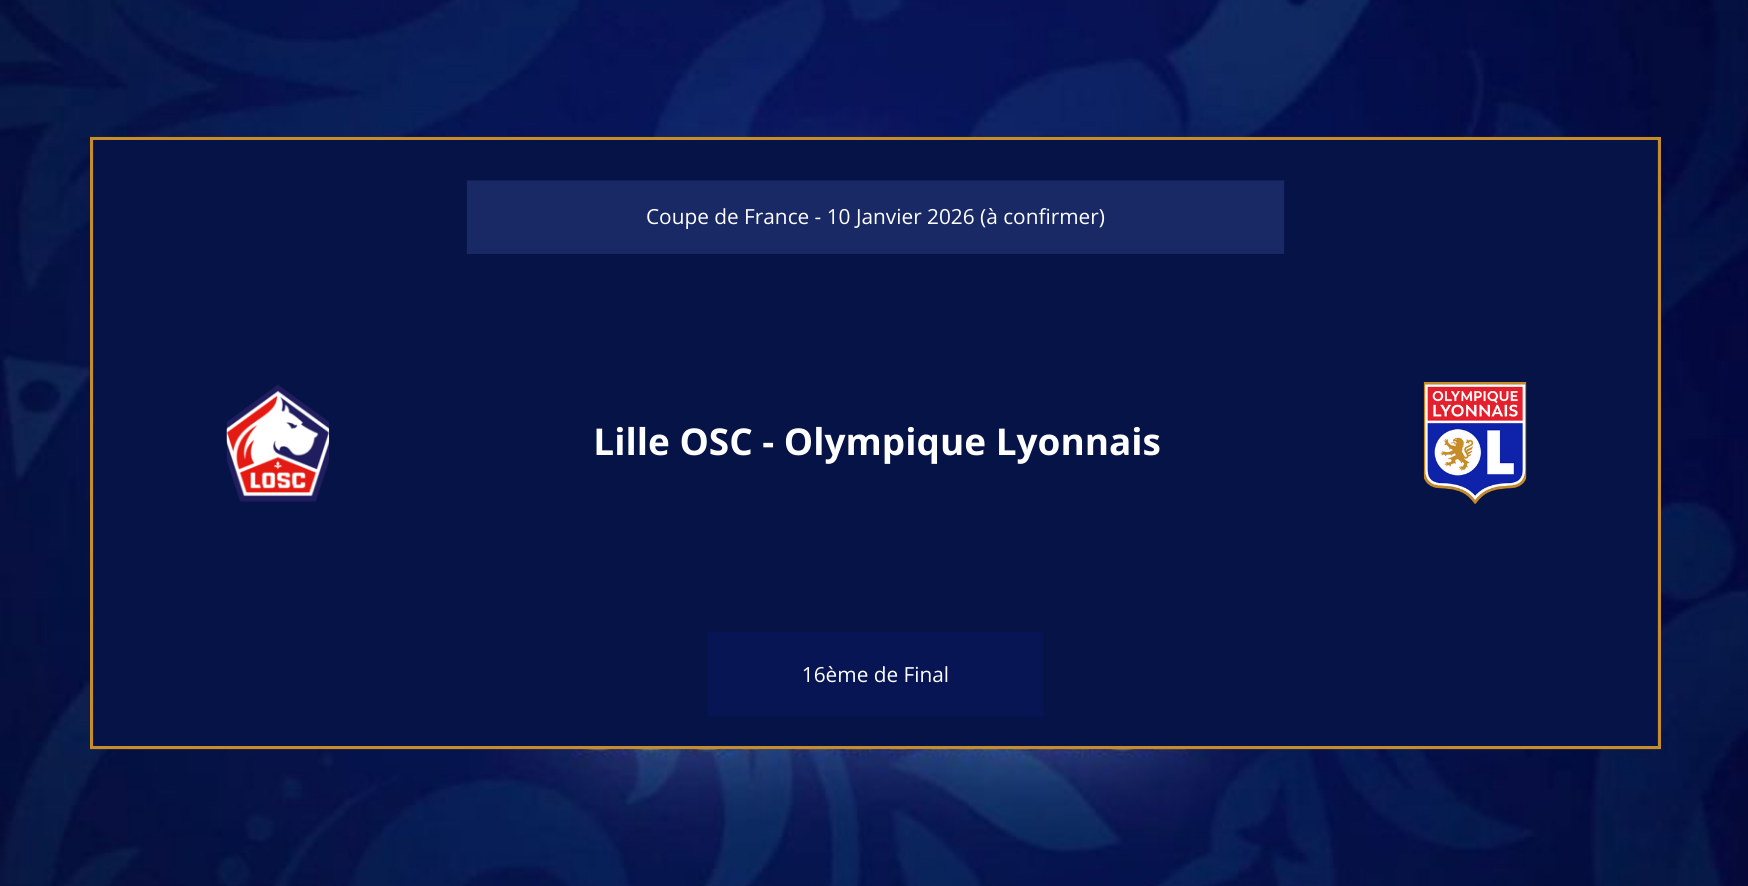
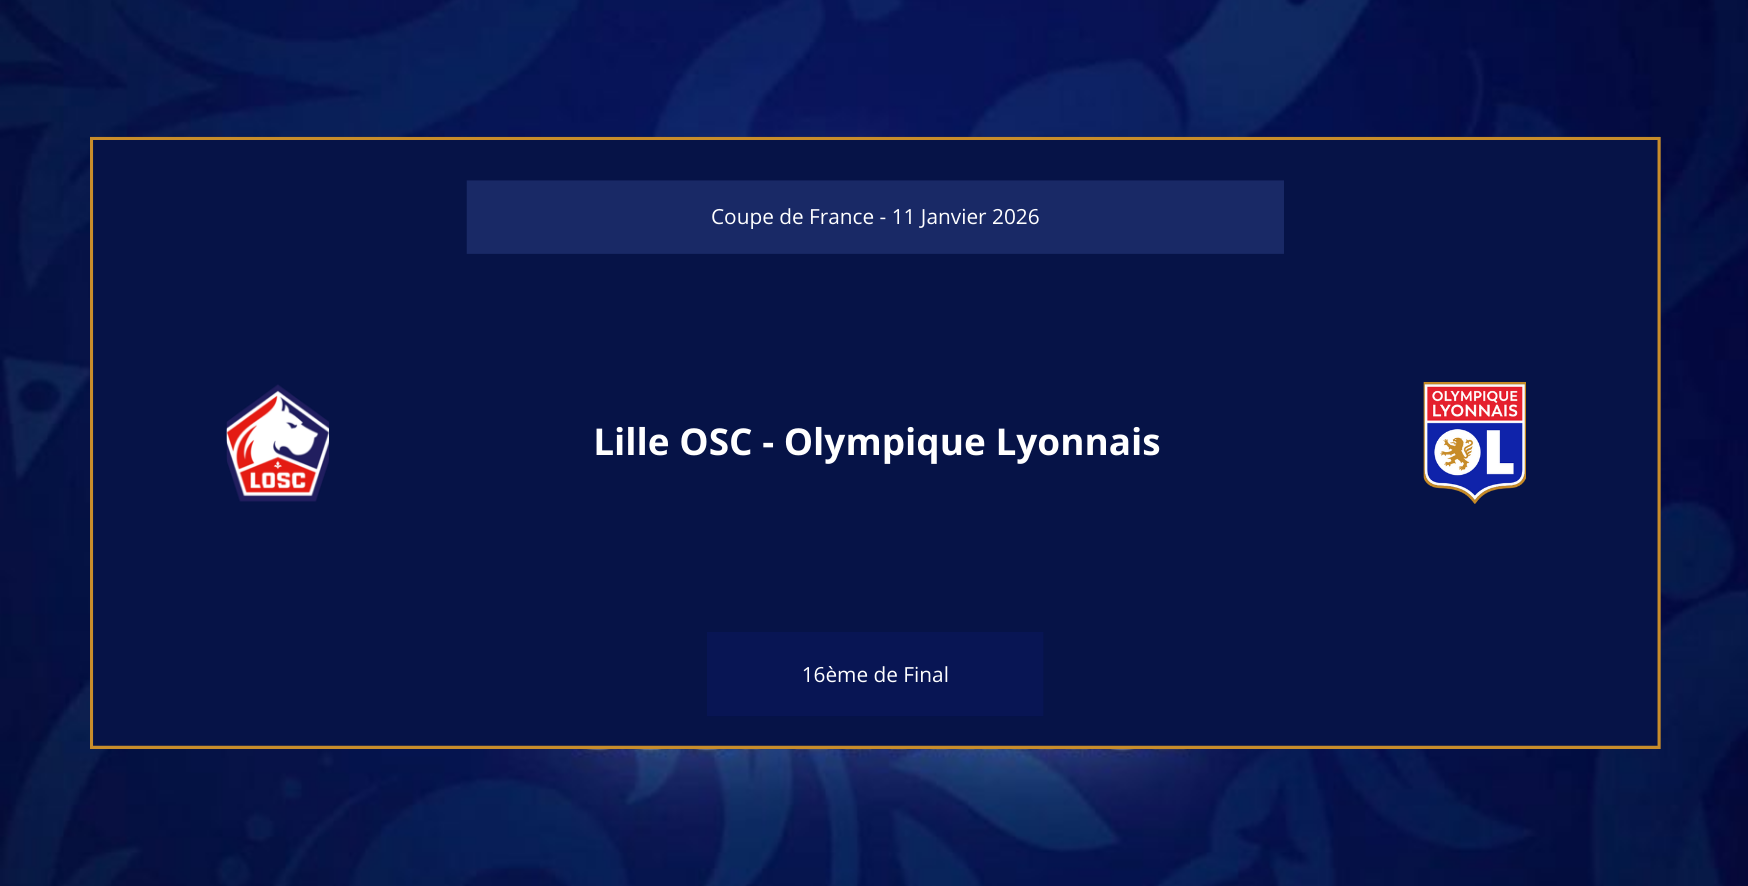
page archive + date match MAJ

diff --git a/ancienne_saison.html b/ancienne_saison.html
@@ -5,6 +5,7 @@
         <meta name="viewport" content="width=device-width" initial-scale="1.0">
         <title>OL Fan</title>
         <link rel="stylesheet" href="style.css">
+        <link rel="stylesheet" href="ancienne_saison.css">
         <link rel="icon" href="image/logo.png" type="image/x-icon">
     </head>
 
@@ -56,6 +57,38 @@
         </nav>
 
         <main>
+            <h3>Archive des saisons précédentes</h3>
+            <section class="box">
+                <article class="sous_box">
+                    <h4>Saison 2023-2024</h4>
+                    <p>Retrouvez les statistiques et résultats de la saison 2023-2024 de l'Olympique Lyonnais.</p>
+                    <a href="" class="bouton">Voir la saison 2023-2024</a>
+                </article>
+
+                <article class="sous_box">
+                    <h4>Saison 2022-2023</h4>
+                    <p>Retrouvez les statistiques et résultats de la saison 2022-2023 de l'Olympique Lyonnais.</p>
+                    <a href="" class="bouton">Voir la saison 2022-2023</a>
+                </article>
+
+                <article class="sous_box">
+                    <h4>Saison 2021-2022</h4>
+                    <p>Retrouvez les statistiques et résultats de la saison 2021-2022 de l'Olympique Lyonnais.</p>
+                    <a href="" class="bouton">Voir la saison 2021-2022</a>
+                </article>
+
+                <article class="sous_box">
+                    <h4>Saison 2019-2020</h4>
+                    <p>Retrouvez les statistiques et résultats de la saison 2019-2020 de l'Olympique Lyonnais.</p>
+                    <a href="" class="bouton">Voir la saison 2019-2020</a>
+                </article>
+
+                <article class="sous_box">
+                    <h4>Saison 2001-2002</h4>
+                    <p>Retrouvez les statistiques et résultats de la saison 2001-2002 de l'Olympique Lyonnais.</p>
+                    <a href="" class="bouton">Voir la saison 2001-2002</a>  
+                </article>
+            </section>
         </main>
 
         <footer>

diff --git a/ancienne_saison.css b/ancienne_saison.css
@@ -1,0 +1,81 @@
+/*titre*/
+h3{
+    text-align: center;
+    font-family: Georgia, 'Times New Roman', Times, serif;
+    text-decoration: underline;
+    font-size: 22px;
+}
+
+h4{
+    text-align: center;
+    font-family: Georgia, 'Times New Roman', Times, serif;
+    font-size: 16px;
+}
+
+/*style bouton*/
+.bouton{
+    width: 35%;
+    border-radius: 20px;
+    background-color: rgb(238, 238, 238);
+    padding: 8px;
+    margin: 15px;
+    display: inline-block;
+    transition: transform 0.35s, background-color 0.4s;
+}
+
+.bouton:hover{
+    cursor: pointer;
+    background-color: rgb(230, 230, 230);
+    transform: scale(1.1);
+}
+
+.bouton:active{
+    transform: scale(0.9);
+}
+
+/*rangement box*/
+.box{
+    display: flex;
+    flex-wrap: wrap;
+    flex-direction: row;
+    justify-content: center;
+    border-top: 5px double #C88C28;
+    border-left: 3px solid #c88d284d;
+    border-right: 3px solid #c88d284d;
+    padding: 15px;
+    margin: 30px 30px;
+    border-radius: 20px;
+    text-align: center;
+    font-family: Georgia, 'Times New Roman', Times, serif;
+    transition: transform 0.4s, box-shadow 0.5s;
+}
+
+.box:hover{
+    transform: translateY(-4px);
+    box-shadow: 5px 6px rgb(230, 230, 230);
+}
+
+/*box : style*/
+.sous_box{
+    border: none;
+    border-left: 3px solid #C88C28;
+    border-radius: 5px;
+    background-color: rgb(250, 250, 250);
+    margin: 25px;
+    padding: 25px;
+    text-align: center;
+    font-family: Georgia, 'Times New Roman', Times, serif;
+    transition: transform 0.6s, box-shadow 0.8s;
+}
+
+.sous_box:hover{
+    transform: translateY(-4px);
+    box-shadow: 5px 6px rgb(230, 230, 230);
+}
+
+.sous_box img{
+    border-radius: 15px;
+    border: 2px solid #C88C28;
+    margin: 10px;
+    width: 300px;
+}
